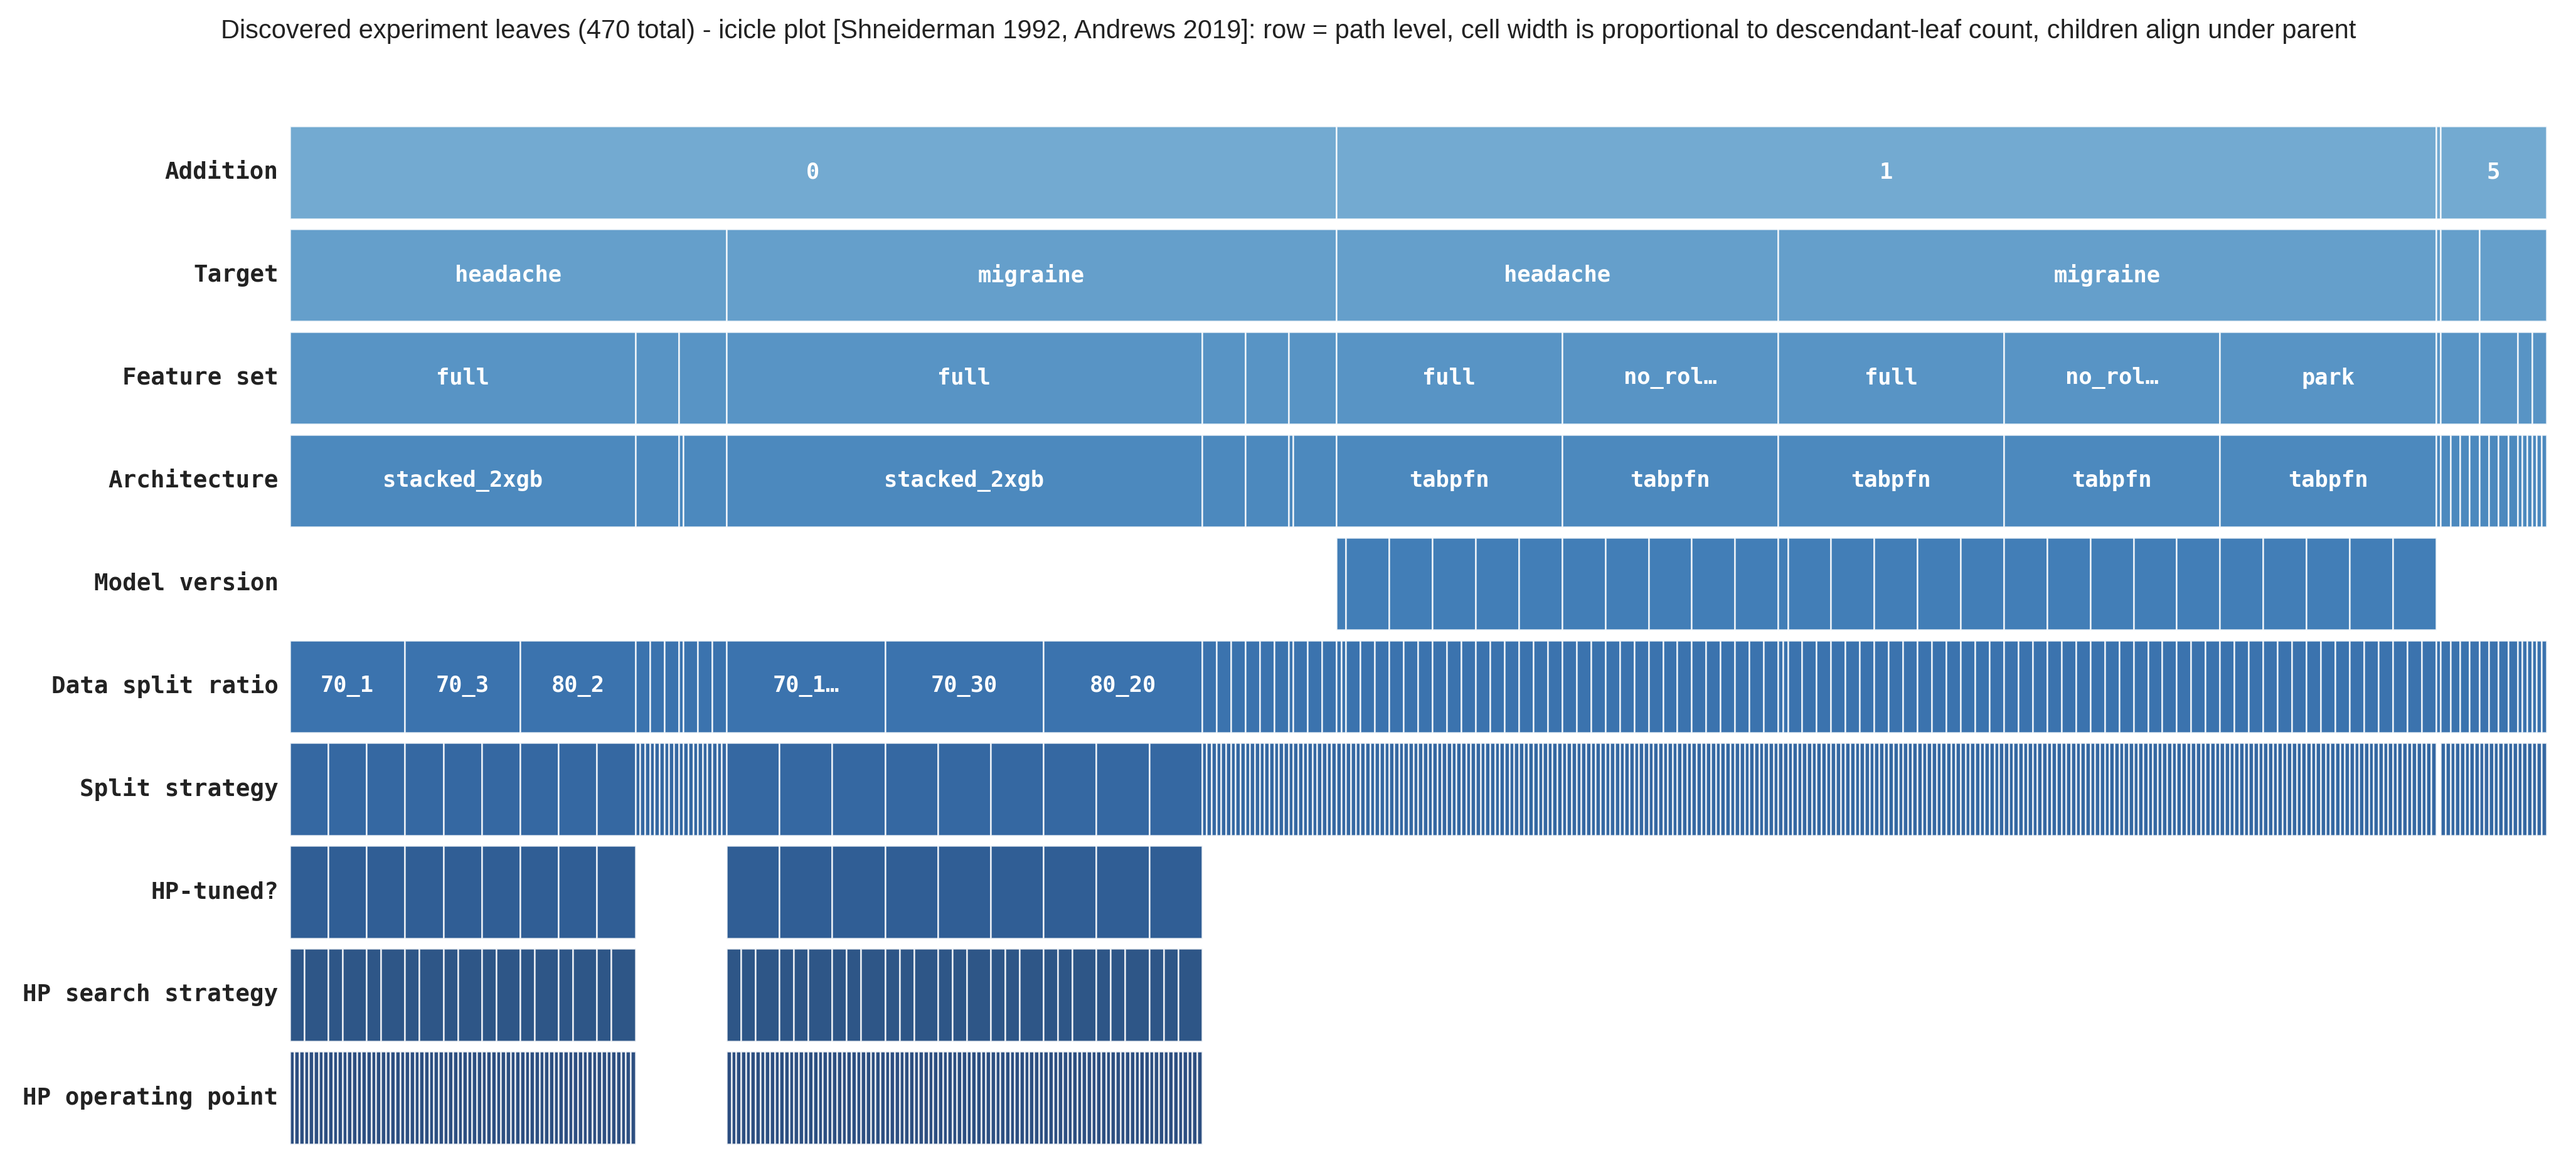
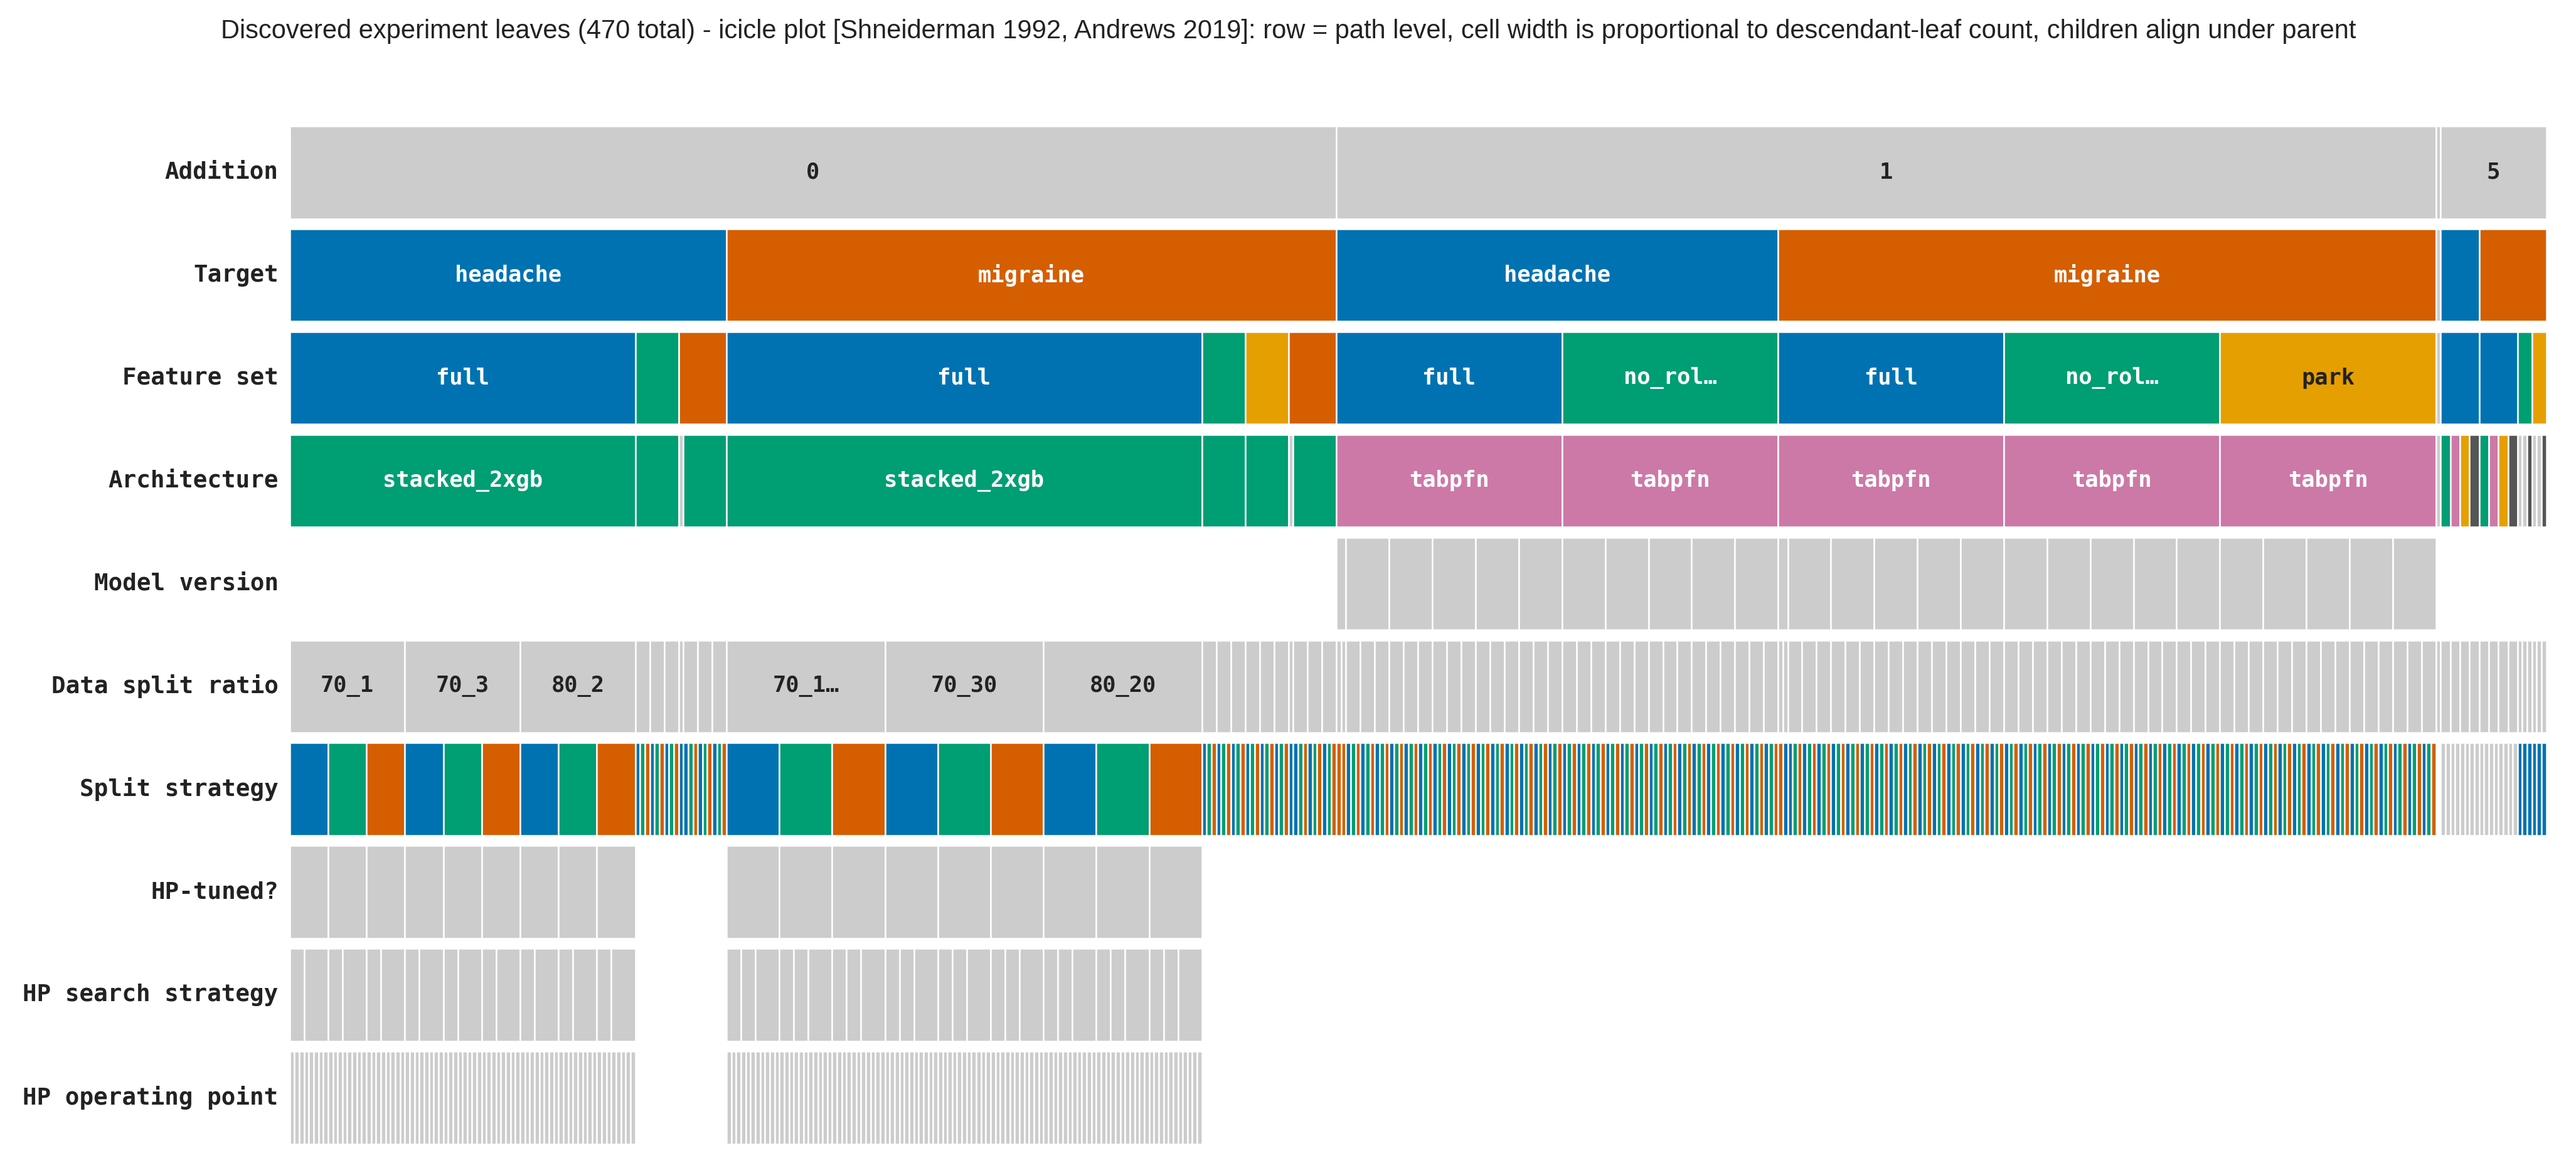
coloured the leaf-tree icicle by entity instead of an all-blue depth ramp
depth is already encoded by row position, so the single-hue depth ramp was
redundant double-encoding. the target, feature-set, architecture, and split-strategy
rows now use their canonical entity hues (matching every other figure - headache
blue / migraine vermillion, stacked green / tabpfn purple, etc.); the structural rows
(addition, version, ratio, HP state/strategy/variant) stay neutral grey so the
branded rows stand out. cell-label ink switches white/dark by fill luminance.

diff --git a/experiment/_eval/_tree_diagram.py b/experiment/_eval/_tree_diagram.py
@@ -35,7 +35,7 @@ matplotlib.use("Agg")
 import matplotlib.pyplot as plt
 from matplotlib.patches import Rectangle
 
-from _style import apply, save, INK
+from _style import apply, save, INK, FAINT, TARGET, ARCH, SPLIT, FEATURE_SET
 
 
 # Path-segment levels in the order they appear under experiment/.
@@ -56,14 +56,38 @@ TREE_LEVELS = (
     ('hp_variant',     'HP operating point'),
 )
 
-# Ordinal single-hue (blue) depth ramp: shallow -> deep. Tree depth has an
-# inherent order with no divergence, so the guide's ordinal role (Sec 1.0/Sec 9)
-# requires one ordered hue family, NOT the former rainbow (which read as
-# categorical/diverging). Kept dark enough for white cell labels at alpha 0.85.
-TREE_LEVEL_COLORS = [
-    '#5a9bc9', '#4a8ec2', '#3b81bb', '#2d74b3', '#2167ab',
-    '#185aa0', '#114e92', '#0c4283', '#093872', '#08306b',
-]
+# Cell colour carries ENTITY IDENTITY, not depth. Depth is already encoded by row
+# position (top -> bottom), so a depth colour ramp would be redundant; spending the
+# colour channel on the canonical entity hues instead tells the reader which target /
+# feature set / model / split a cell is, consistent with every other figure. Levels
+# without a canonical entity (addition index, model version, split ratio, the three
+# HP rows) stay a neutral grey so the branded rows stand out.
+_LEVEL_PALETTE = {
+    1: TARGET,        # headache / migraine
+    2: FEATURE_SET,   # full / spano / no_rolling / park (dirs carry a _features suffix)
+    3: ARCH,          # model family hue
+    6: SPLIT,         # chrono / stratified / patient / site
+}
+_STRUCTURAL_FILL = FAINT
+
+
+def _node_fill(level, label):
+    """Canonical entity colour for a node's level, else the neutral fill."""
+    palette = _LEVEL_PALETTE.get(level)
+    if palette is None:
+        return _STRUCTURAL_FILL
+    key = label.replace('_features', '') if level == 2 else label
+    return palette.get(key, _STRUCTURAL_FILL)
+
+
+def _label_ink(hex_fill):
+    """White on a dark fill, INK on a light one, by relative luminance, so cell
+    labels stay legible across the dark-to-light span of the Okabe-Ito palette.
+    """
+    h = hex_fill.lstrip('#')
+    r, g, b = (int(h[i:i + 2], 16) / 255.0 for i in (0, 2, 4))
+    luminance = 0.2126 * r + 0.7152 * g + 0.0722 * b
+    return INK if luminance > 0.6 else 'white'
 
 
 class _Node:
@@ -187,23 +211,23 @@ def _draw_node_rects(ax, node, row_h, row_pad):
     separation.
     """
     if node.level >= 0:
-        color = TREE_LEVEL_COLORS[min(node.level, len(TREE_LEVEL_COLORS) - 1)]
+        color = _node_fill(node.level, node.label)
         y_top = node.level * row_h
         y_bot = y_top + row_h - row_pad
         width = node.x1 - node.x0
         # The rectangle itself.
         ax.add_patch(Rectangle(
             (node.x0, y_top), width, row_h - row_pad,
-            facecolor=color, edgecolor='white', linewidth=0.6, alpha=0.85,
+            facecolor=color, edgecolor='white', linewidth=0.6,
         ))
-        # Centred label (white on coloured background); compacted then
-        # truncated to fit the cell width.
+        # Centred label, ink chosen for legibility on this cell's fill;
+        # compacted then truncated to fit the cell width.
         label = _label_for_width(_short_node_label(node.label), width)
         if label:
             ax.text(
                 (node.x0 + node.x1) / 2.0, (y_top + y_bot) / 2.0,
                 label, ha='center', va='center',
-                color='white', fontsize=8.5, fontweight='bold',
+                color=_label_ink(color), fontsize=8.5, fontweight='bold',
                 fontfamily='monospace',
             )
     for child in node.children.values():
